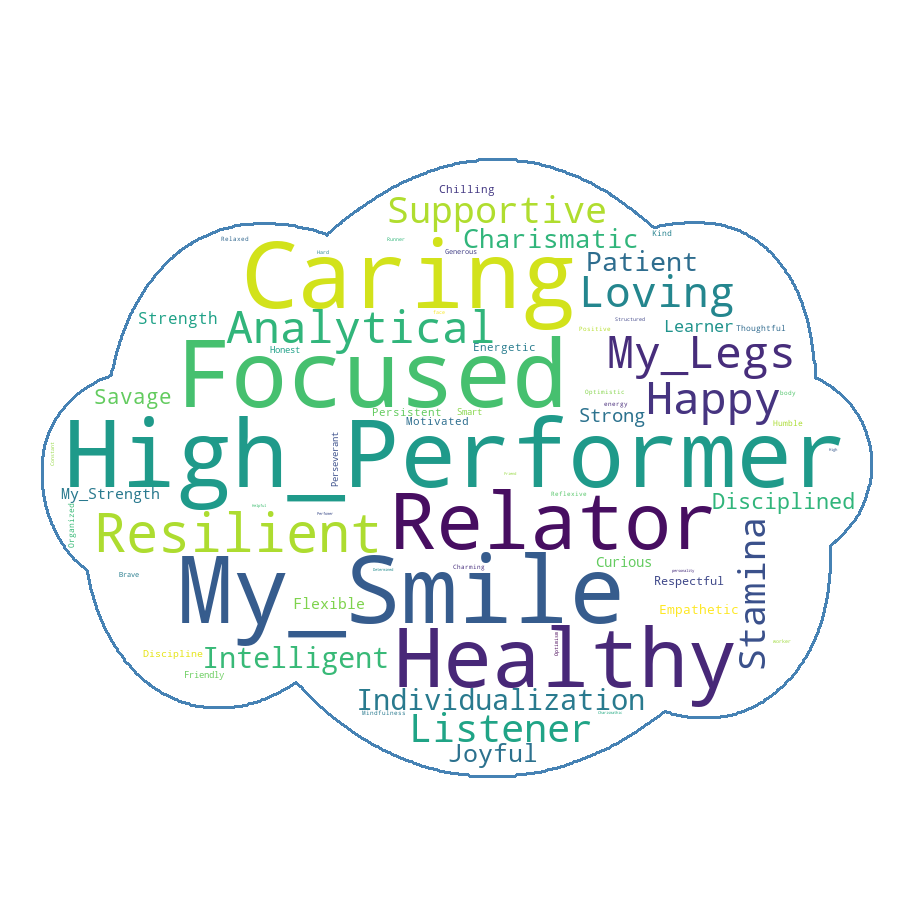
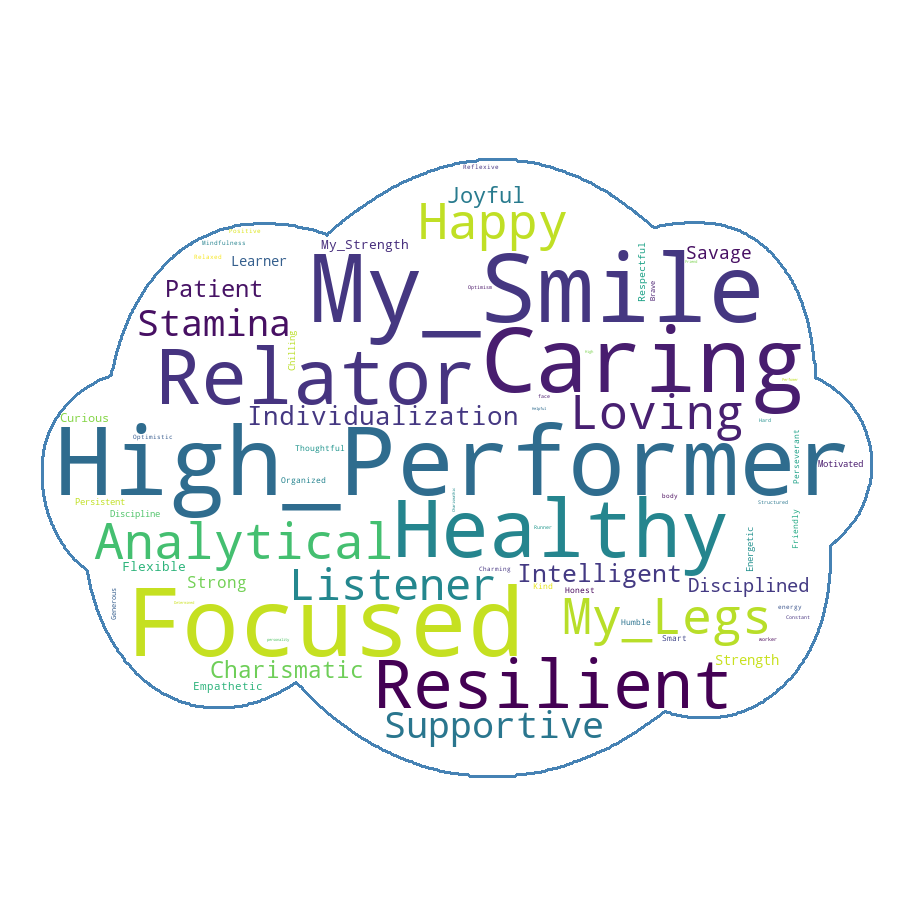
using arguments

Changed region(s): [[0.0622, 0.1867, 0.9644, 0.84]]

diff --git a/wordcloud_generator.py b/wordcloud_generator.py
@@ -1,43 +1,83 @@
 import os
+import sys
 import numpy as np
 import matplotlib.pyplot as plt
 from os import path
 from PIL import Image
 from wordcloud import WordCloud, STOPWORDS
 
-# 'datasets/daily_self_gil.txt' 
-FILE = 'datasets/self_appreciation_2023.txt'
-MASK = 'images/masks/cloud.png'
+def validate_args(FILE, MASK):
+    """Validates if both `FILE` and `MASK` arguments exist.
 
-# get data directory (using getcwd() is needed to support running example in generated IPython notebook)
-d = path.dirname(__file__) if "__file__" in locals() else os.getcwd()
+    Args:
+    FILE: The path to the text file.
+    MASK: The path to the mask image.
 
-# Read the whole text.
-text = open(path.join(d, FILE)).read()
+    Returns:
+    True if both arguments exist, False otherwise.
+    """
 
-# read the mask image
-image_mask = np.array(Image.open(path.join(d, MASK)))
+    if not os.path.exists(FILE):
+        FILE = "files/self_appreciation_2023.txt"
+        return False
 
-stopwords = set(STOPWORDS)
+    if not os.path.exists(MASK):
+        MASK = "images/masks/cloud.png"
+        return False
 
-# Customize my Wordcloud
-stopwords.add('smile')
-stopwords.add('legs')
+    return True
 
-wc = WordCloud(background_color="white", max_words=6000, mask=image_mask,
-               stopwords=stopwords, contour_width=3, contour_color='steelblue',
-               collocations=False, max_font_size=100)
 
-# generate word cloud
-text_generated = wc.generate(text)
+def wordcloud_generator(FILE, MASK):
+    # get data directory (using getcwd() is needed to support running example in generated IPython notebook)
+    d = path.dirname(__file__) if "__file__" in locals() else os.getcwd()
 
-# store to file
-wc.to_file(path.join(d, "images/gil_self.png"))
+    # Read the whole text.
+    text = open(path.join(d, FILE)).read()
 
-# show
-plt.imshow(wc, interpolation='bilinear')
-plt.axis("off")
-plt.figure()
-plt.imshow(image_mask, cmap=plt.cm.gray, interpolation='bilinear')
-plt.axis("off")
-plt.show()
+    # read the mask image
+    image_mask = np.array(Image.open(path.join(d, MASK)))
+
+    stopwords = set(STOPWORDS)
+
+    # Customize my Wordcloud
+    stopwords.add('smile')
+    stopwords.add('legs')
+
+    wc = WordCloud(background_color="white", max_words=6000, mask=image_mask,
+                stopwords=stopwords, contour_width=3, contour_color='steelblue',
+                collocations=False, max_font_size=100)
+
+    # generate word cloud
+    text_generated = wc.generate(text)
+
+    # store to file
+    wc.to_file(path.join(d, "images/gil_self.png"))
+
+    # show
+    plt.imshow(wc, interpolation='bilinear')
+    plt.axis("off")
+    plt.figure()
+    plt.imshow(image_mask, cmap=plt.cm.gray, interpolation='bilinear')
+    plt.axis("off")
+    plt.show()
+
+
+'''
+Generates a word cloud from a text file.
+
+Args:
+  FILE: The path to the text file.
+  MASK: The path to the mask image.
+'''
+
+# Read args
+FILE = sys.argv[1]
+MASK = sys.argv[2]
+
+if validate_args(FILE, MASK):
+  # Both arguments exist.
+  wordcloud_generator(FILE, MASK)
+else:
+  # One or both arguments do not exist.
+  print("One or both arguments do not exist -> using default values.")

diff --git a/README.md b/README.md
@@ -5,9 +5,9 @@ Generate your own Wordcloud with image mask.
 
 ## 🎮 Usage
 
-  1. Run code
+  1. Run code with two arguments (text file and image mask) 
       ```bash
-      python wordcloud_generator.py
+      python wordcloud_generator.py files/self_appreciation_2023.txt images/masks/cloud.png
       ```
 
 ## Extras
